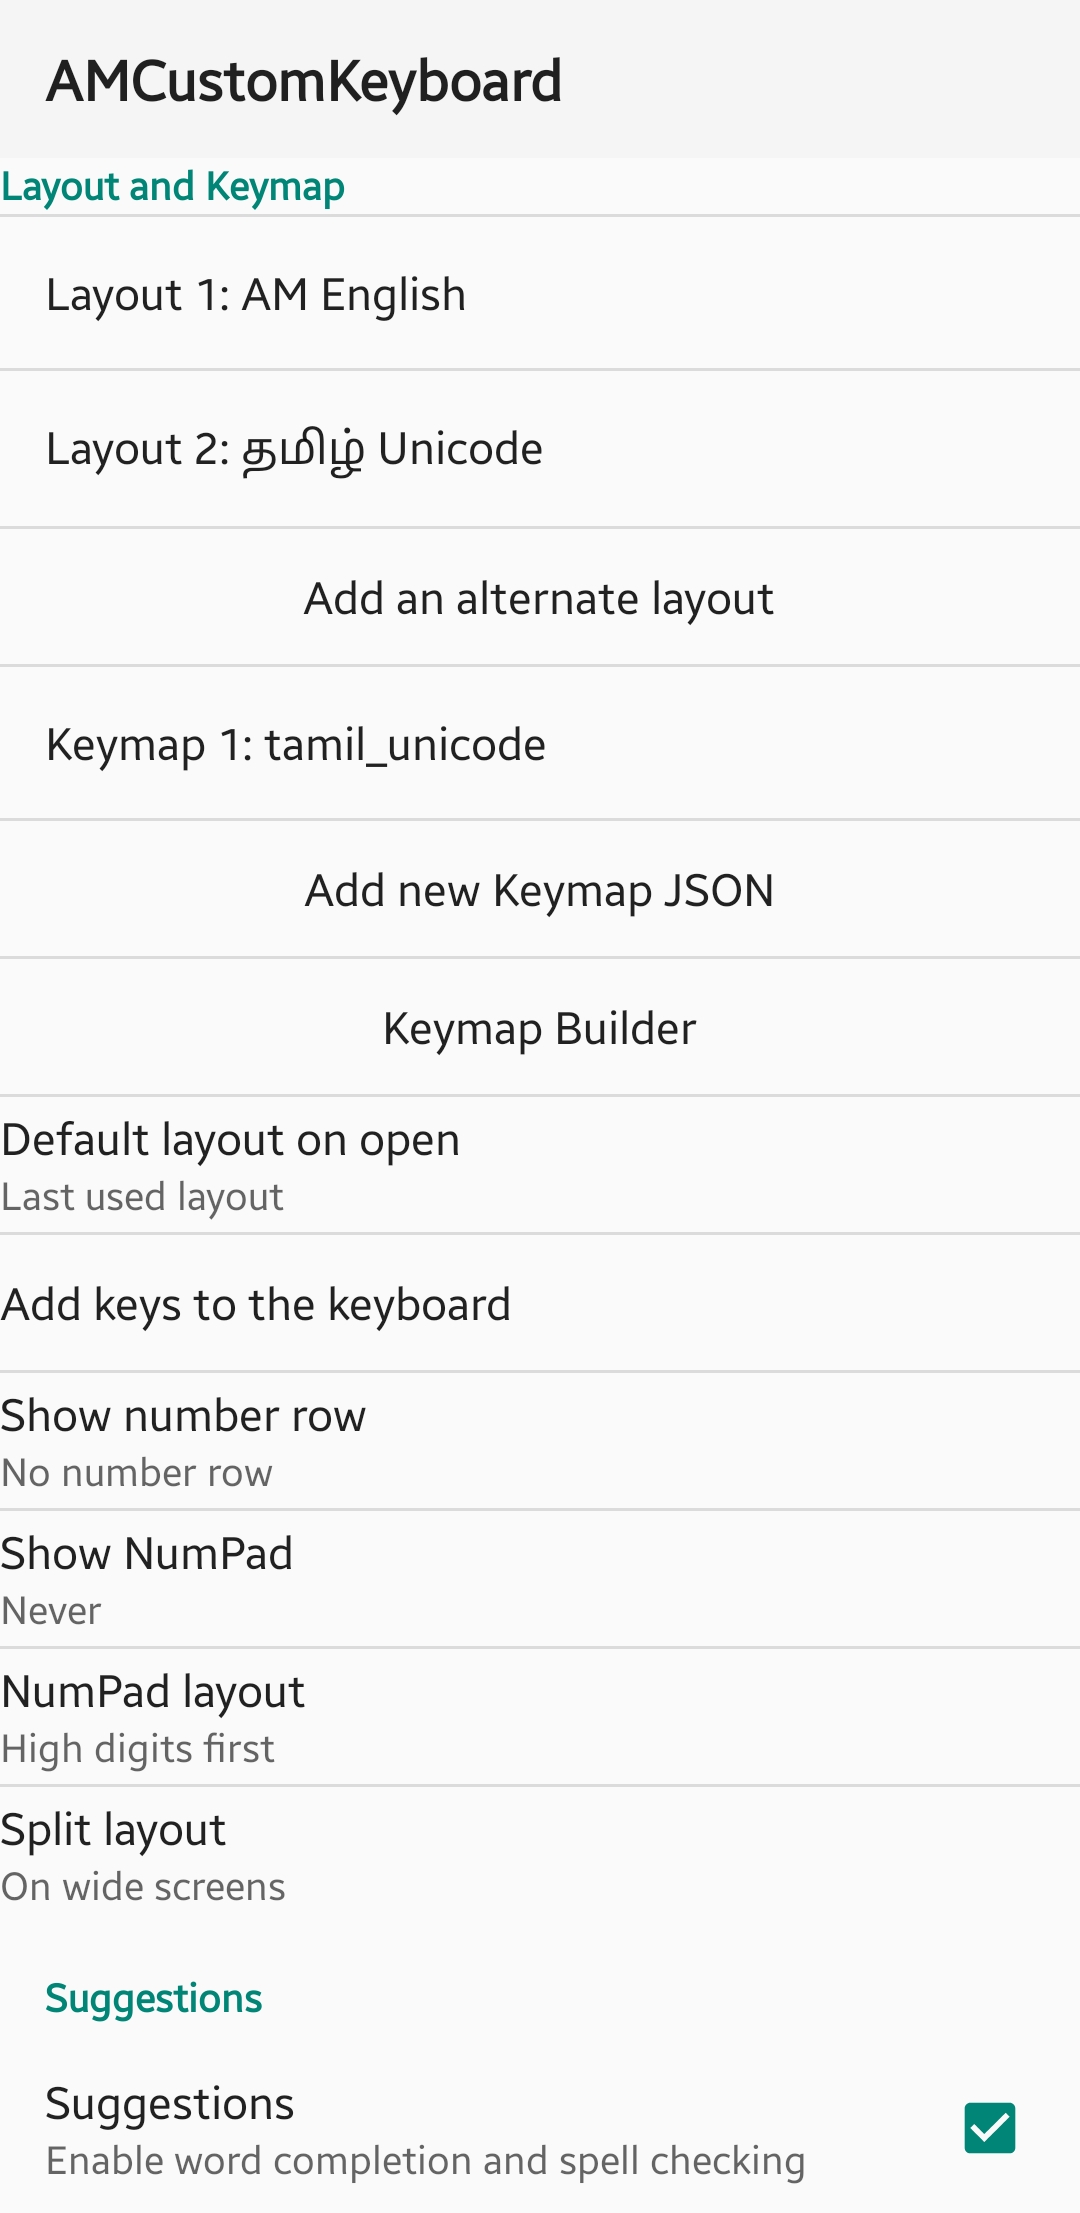
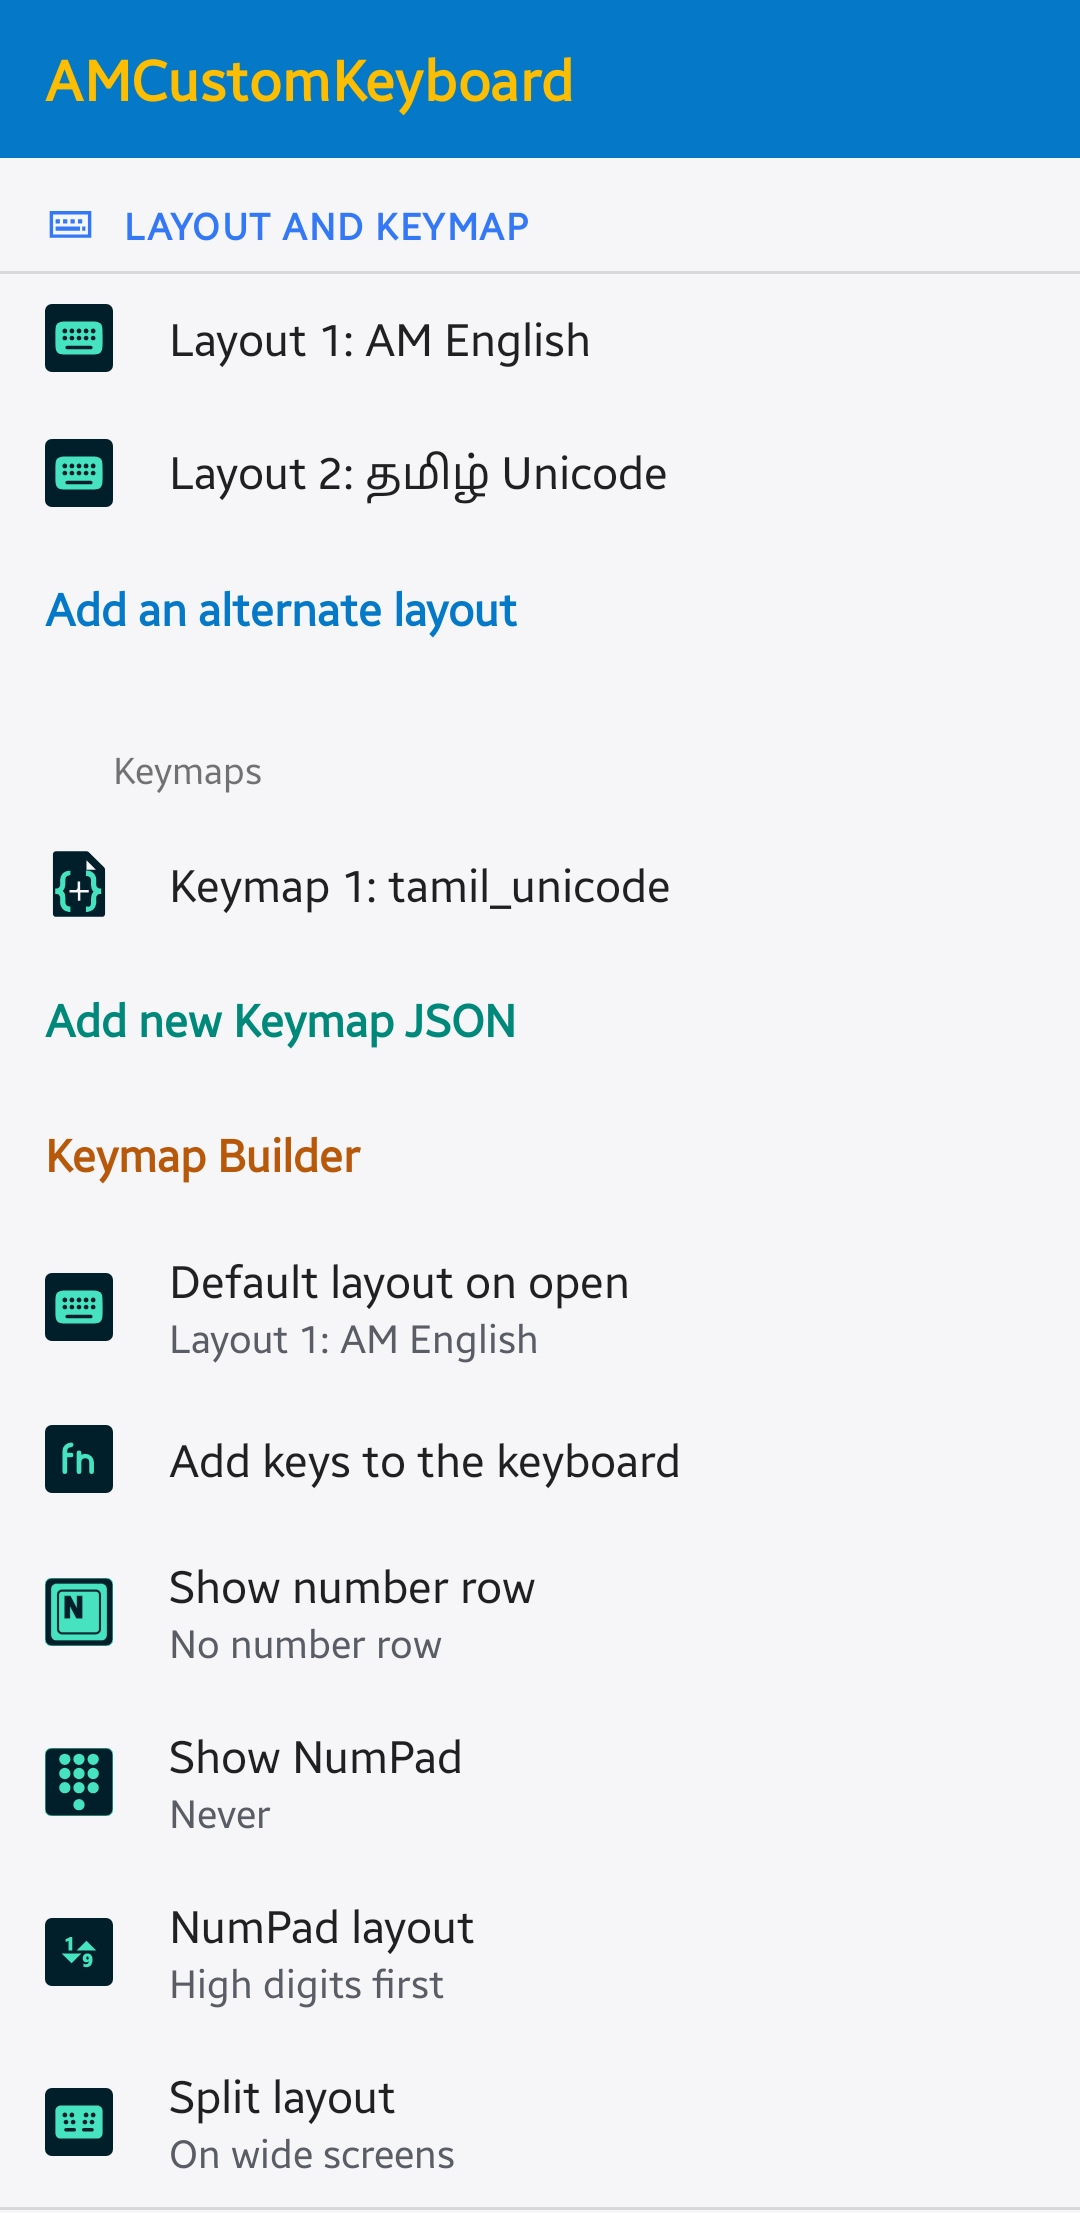
Release 1.2.0

Changed region(s): [[0.0, 0.0, 1.0, 1.0], [0.2444, 0.3118, 0.3361, 0.343]]

diff --git a/README.md b/README.md
@@ -30,6 +30,11 @@ Just download the `.apk`, allow installs from unknown sources, and enable it as 
 <td><img src="https://raw.githubusercontent.com/adiraimaji/AMCustomKeyboard/main/Screenshots/Screenshot_5.jpeg" width="220"/></td>
 <td><img src="https://raw.githubusercontent.com/adiraimaji/AMCustomKeyboard/main/Screenshots/Screenshot_6.jpeg" width="220"/></td>
 </tr>
+<tr>
+<td><img src="https://raw.githubusercontent.com/adiraimaji/AMCustomKeyboard/main/Screenshots/Screenshot_7.jpeg" width="220"/></td>
+<td><img src="https://raw.githubusercontent.com/adiraimaji/AMCustomKeyboard/main/Screenshots/Screenshot_8.jpeg" width="220"/></td>
+<td></td>
+</tr>
 </table>
 </div>
 
@@ -55,9 +60,10 @@ Just download the `.apk`, allow installs from unknown sources, and enable it as 
 16. [Keymap Builder](#keymap-builder)
 17. [Referential Integrity: Rename &amp; Delete Safety](#referential-integrity-rename--delete-safety)
 18. [Dictionary Suggestions with Keymaps](#dictionary-suggestions-with-keymaps)
-19. [Engine Architecture](#engine-architecture)
-20. [Full XML Example](#full-xml-example)
-21. [Quick-Reference Rules Summary](#quick-reference-rules-summary)
+19. [Tasker Automation](#tasker-automation)
+20. [Engine Architecture](#engine-architecture)
+21. [Full XML Example](#full-xml-example)
+22. [Quick-Reference Rules Summary](#quick-reference-rules-summary)
 
 ---
 
@@ -80,6 +86,7 @@ On top of the transliteration engine itself, AMCustomKeyboard ships:
 - **Grouped-only keymap JSON** (output → keys)
 - **Toggle-style keymaps** for reversible mappings (e.g. `a ↔ அ`, `su ↔ சு`)
 - A **Default layout** setting to choose which layout loads when the keyboard opens
+- **Tasker Automation** — typed triggers that hand text off to a Tasker task and insert its result back into the field, with no XML/scripting beyond a small JSON config
 
 ---
 
@@ -540,6 +547,64 @@ Word suggestions stay correctly in sync with keymap transliteration:
 
 ---
 
+## Tasker Automation
+
+AMCustomKeyboard can hand typed text off to [Tasker](https://tasker.joaoapps.com/) and insert the task's returned result directly into the field you're typing in — no scripting beyond a small JSON config. It's configured from **Settings → Tasker Automation**, which contains:
+
+- **Tasker Automation** — opens the JSON config editor (same line-numbered dialog used for keymaps and layouts), with inline validation and a live task count in its summary (e.g. "3 task(s) configured" / "Not configured").
+- **How to use Tasker Automation** — opens an in-app guide (`TaskerAutomationGuideActivity`) walking through triggers, expand patterns, the config format, and how to build the matching Tasker task.
+- **Get AM Tasker Plugins** — links to the companion [AMTaskerPluginsReleases](https://github.com/adiraimaji/AMTaskerPluginsReleases) repo, with Tasker plugins (send/return text, request IDs, and more) for building the Tasker side of a task.
+
+Because this talks to the Tasker app, it requires the `net.dinglisch.android.tasker.PERMISSION_RUN_TASKS` permission (declared in the manifest) and Tasker's own **"Allow External Access"** setting.
+
+### Config JSON format
+
+There is a single, app-wide config (not a list, unlike layouts/keymaps):
+
+```json
+{
+  "amck_replace": "##",
+  "amck_append": "@@",
+  "amck_timeout": "15000",
+  "runtask1": "Task 1",
+  "runtask2": "Task 2",
+  "amck_patterns": [
+    { "prefix": "..", "suffix": " ", "task": "Expand Task 1" }
+  ]
+}
+```
+
+| Key               | Required? | Meaning                                                                                                                                 |
+| ----------------- | :-------: | --------------------------------------------------------------------------------------------------------------------------------------- |
+| `amck_replace`  | Optional | Trigger prefix for**replace-whole-field** commands. Default `"##"`.                                                             |
+| `amck_append`   | Optional | Trigger prefix for**replace-trigger-only** commands. Default `"@@"`.                                                            |
+| `amck_timeout`  | Optional | Milliseconds to wait for a task's result before giving up. Default`"15000"`, must be between 1000 and 120000.                         |
+| any other key     |    —    | A**keyword** mapped to the exact **Tasker task name** to run when that keyword follows a trigger. At least one is required. |
+| `amck_patterns` | Optional | Array of open-ended**expand patterns** (see below). Auto-filled with one example entry if omitted or empty.                       |
+
+`amck_replace` and `amck_append` must be different from each other, and every keyword must be unique. If any of `amck_replace`, `amck_append`, `amck_timeout`, or `amck_patterns` is left out, the app fills in its default and re-saves the config so the stored JSON always matches what's actually in effect — and the config dialog always shows you all of these keys up front (rather than requiring you to know a default exists to override it).
+
+### Triggers: replace vs. append
+
+Given a task keyword `runtask1` mapped to Tasker task `"Task 1"`:
+
+- Typing **`##runtask1`** (the replace trigger + keyword) sends the **entire current field's text** to `"Task 1"` and, on completion, replaces the **whole field** with the task's returned output.
+- Typing **`@@runtask1`** (the append trigger + keyword) runs the same task, but replaces only the **typed `@@runtask1` text itself** with the output, leaving the rest of the field untouched.
+
+### Expand patterns
+
+Each entry in `amck_patterns` describes an open-ended expander, independent of the fixed keyword list above: typing `[prefix]`, then any non-empty text, then `[suffix]` (e.g. `..5+1 ` for prefix `".."` / suffix `" "`) runs `[task]` with that in-between text as `%keyword`, and replaces just that `prefix+content+suffix` span with the result — the same field-editing behavior as an `amck_append` trigger, never the whole field.
+
+### One-shot undo
+
+Right after a trigger's replacement text lands, a single backspace with nothing typed in between swaps it back for the original trigger+keyword text (e.g. back to `@@runtask1`) instead of deleting a character. Pressing backspace again afterward behaves like an ordinary backspace. Typing anything else instead of that one immediate backspace forfeits the undo, and the result is left in place as plain text.
+
+### Errors
+
+If a task times out, fails, or Tasker can't be reached at all (not installed, or "Allow External Access" disabled), the field is left as-is and a short error is shown rather than silently swallowing the failed command.
+
+---
+
 ## Engine Architecture
 
 Input flows through the following pipeline, from raw touch to final committed text:
@@ -568,16 +633,19 @@ InputConnection
 
 **Component responsibilities:**
 
-| Component                      | Responsibility                                                                                                                                                                      |
-| ------------------------------ | ----------------------------------------------------------------------------------------------------------------------------------------------------------------------------------- |
-| `Pointers.java`              | Multi-touch tracking, swipe detection, long press, sliding keys, modifier latching/locking, gesture handling                                                                        |
-| `KeyModifier.java`           | Shift / Ctrl / Alt / Meta / Fn, compose keys, dead keys, Hangul composition, gesture modifiers, selection mode                                                                      |
-| `Keymap.java`                | Loads a keymap's JSON, stores its mappings, provides lookups                                                                                                                        |
-| `KeymapManager.java`         | Persists all saved keymaps, resolves by name, handles add/remove/rename                                                                                                             |
-| `KeymapEngine.java`          | Prefix matching, longest-sequence replacement, live conversion, toggle-style cycling, word-tracker synchronization, swipe-gating via`swipekeymap`                                 |
-| `KeymapXmlAttrUtils.java`    | Reads/writes the`name`, `keymap`, and `swipekeymap` attributes on a layout's raw XML, used by both the Layout dialog's Keyboard Attributes card and rename/delete propagation |
-| `KeymapBuilderActivity.java` | The guided keymap editor — rows, quick add, duplicate detection, search/filter, raw JSON import                                                                                    |
-| `LayoutsPreference.java`     | The Settings list combining Layout and Keymap rows, default layout selection, referential-integrity enforcement on rename/delete                                                    |
+| Component                           | Responsibility                                                                                                                                                                                 |
+| ----------------------------------- | ---------------------------------------------------------------------------------------------------------------------------------------------------------------------------------------------- |
+| `Pointers.java`                   | Multi-touch tracking, swipe detection, long press, sliding keys, modifier latching/locking, gesture handling                                                                                   |
+| `KeyModifier.java`                | Shift / Ctrl / Alt / Meta / Fn, compose keys, dead keys, Hangul composition, gesture modifiers, selection mode                                                                                 |
+| `Keymap.java`                     | Loads a keymap's JSON, stores its mappings, provides lookups                                                                                                                                   |
+| `KeymapManager.java`              | Persists all saved keymaps, resolves by name, handles add/remove/rename                                                                                                                        |
+| `KeymapEngine.java`               | Prefix matching, longest-sequence replacement, live conversion, toggle-style cycling, word-tracker synchronization, swipe-gating via`swipekeymap`                                            |
+| `KeymapXmlAttrUtils.java`         | Reads/writes the`name`, `keymap`, and `swipekeymap` attributes on a layout's raw XML, used by both the Layout dialog's Keyboard Attributes card and rename/delete propagation            |
+| `KeymapBuilderActivity.java`      | The guided keymap editor — rows, quick add, duplicate detection, search/filter, raw JSON import                                                                                               |
+| `LayoutsPreference.java`          | The Settings list combining Layout and Keymap rows, default layout selection, referential-integrity enforcement on rename/delete                                                               |
+| `TaskerAutomationConfig.java`     | Parses, validates, and re-serializes the single Tasker Automation JSON (triggers, timeout, task keywords, expand patterns), auto-filling missing defaults                                      |
+| `TaskerTriggerEngine.java`        | Watches typed characters for a configured trigger+keyword or expand pattern, runs the matching Tasker task, and applies its result (replace-field or replace-trigger), including one-shot undo |
+| `TaskerAutomationPreference.java` | The Settings row that opens the Tasker Automation JSON config editor and reloads`TaskerTriggerEngine` on save                                                                                |
 
 ---
 
